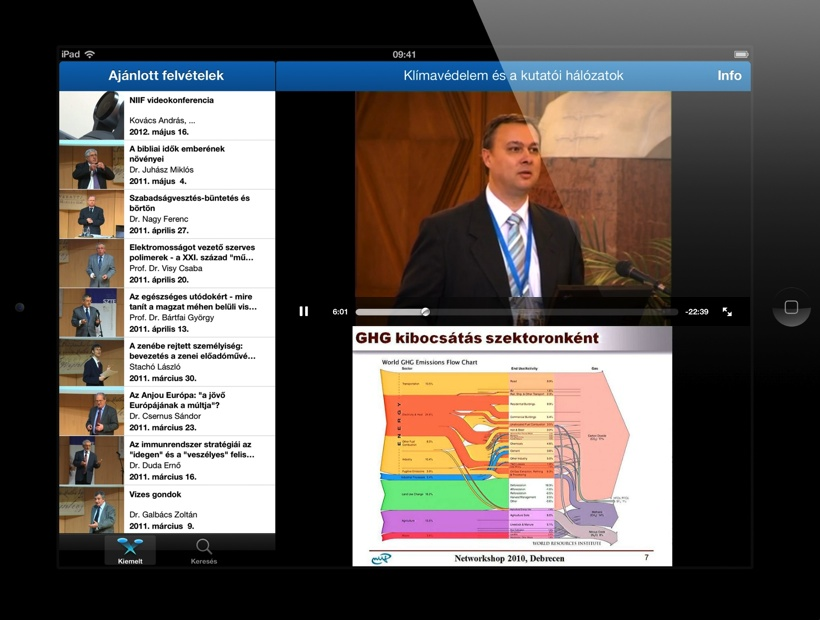
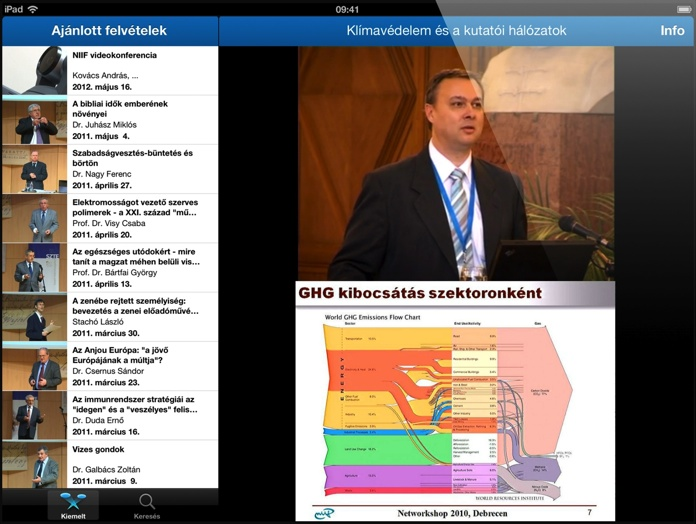
Different way of doing the inner-JPEG-outer-PNG-thing.

diff --git a/web/index.html b/web/index.html
@@ -48,10 +48,10 @@
     }
     .ipad_inner {
       position: absolute;
-      top: 120px;
-      left: 620px; 
-      width: 820px;
-      height: 620px;
+      top: 164px;
+      left: 677px; 
+      width: 696px;
+      height: 524px;
       background-size: 100%;
       background-image: url(ipad_inner.jpg);
       background-repeat: no-repeat;
